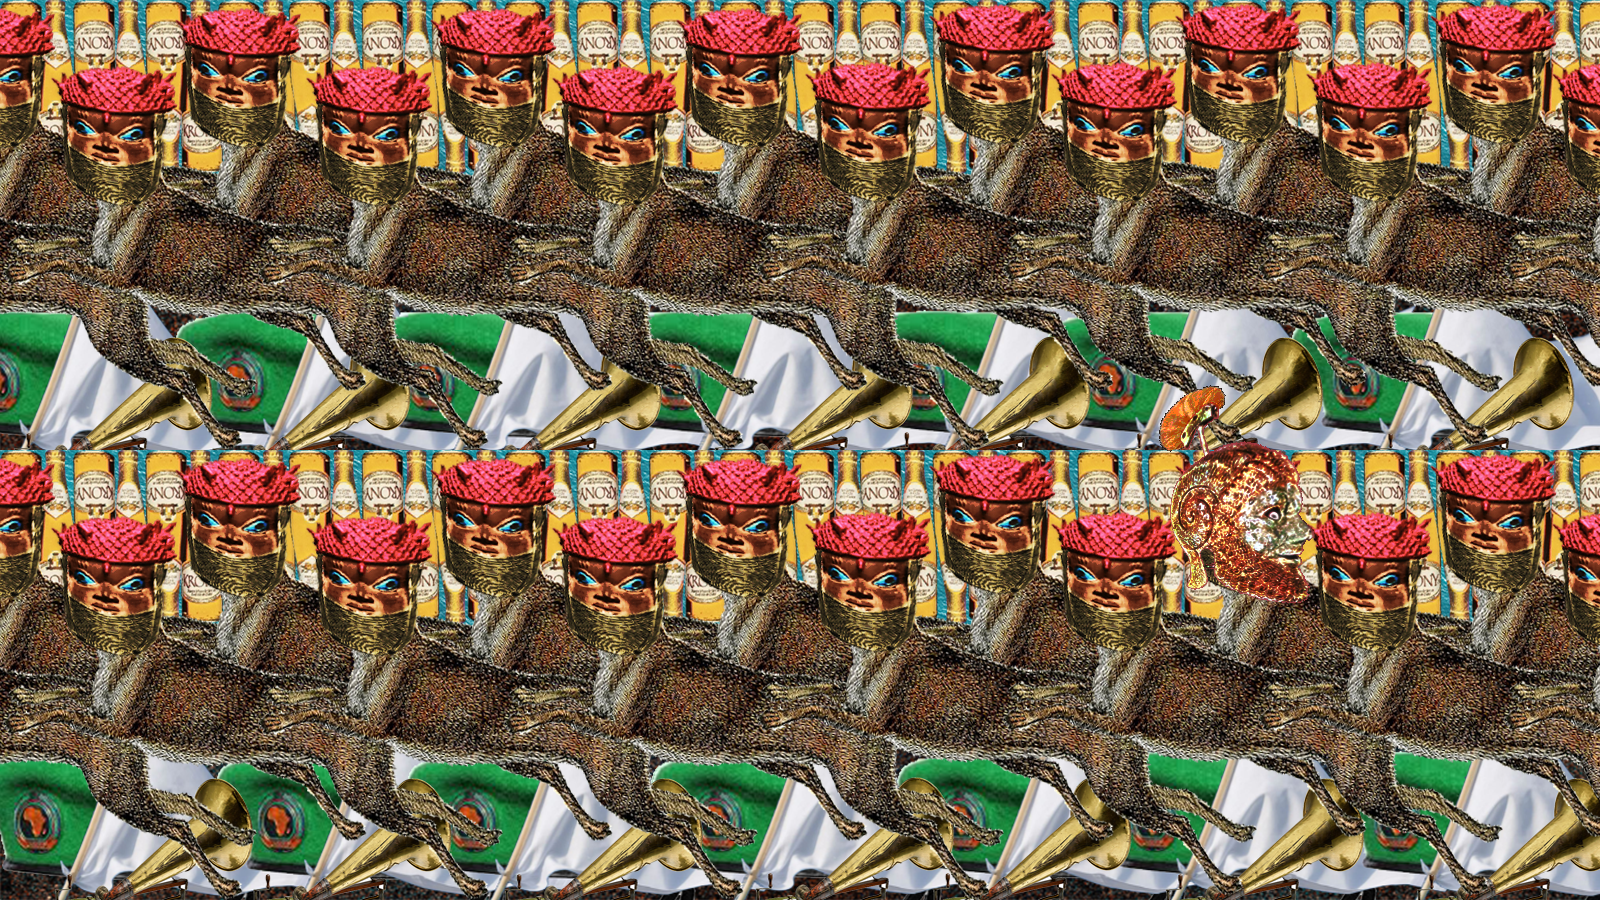
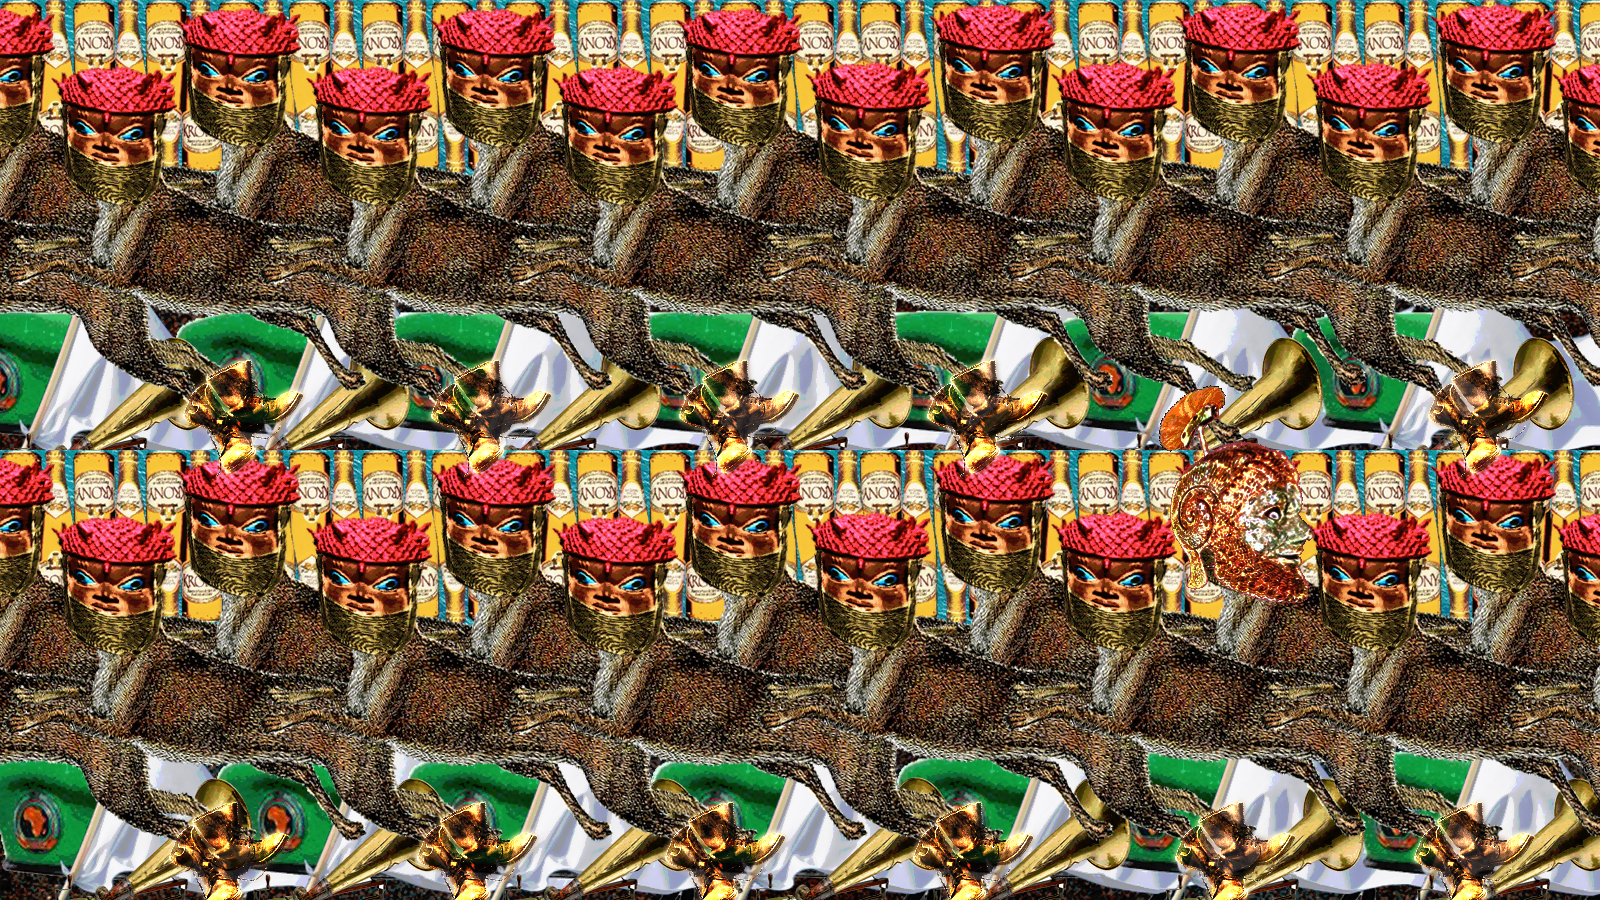
ready to work
work on light part

diff --git a/js/variations/4LIGHTyellow-variation.js b/js/variations/4LIGHTyellow-variation.js
@@ -17,12 +17,23 @@ let yellowImg5;
 let yellowImg6;
 let yellowImg7;
 
+//each will be triggered when the intruder object in each decor has been clicked.
+//when each timer is triggered the image opacity will go up so we can see the overall picture better.
+let timerAfterDecor1 = 0; //up to the treshold which will trigger the next decor event.
+let timerAfterDecor2 = 0;
+let timerAfterDecor3 = 0;
+let timerAfterDecor4 = 0;
+
+let flashlightX = 0;
+
 /////https://editor.p5js.org/ebenjmuse/sketches/rJUFyTjbz
 
 /**
  * This will be called just before the red variation starts
  */
-function yellowSetup() {}
+function yellowSetup() {
+  pixelDensity(1);
+}
 
 /**
  * This will be called every frame when the red variation is active
@@ -31,7 +42,7 @@ function yellowDraw() {
   background("black");
 
   push();
-  image();
+  //image();
 
   pop();
 
@@ -42,9 +53,54 @@ function yellowDraw() {
 
   yellowFadeIn -= 1;
   fill(0, yellowFadeIn);
-  rect(0, 0, width, height);
+  rect(0, 0, 1600, 900);
+
+  push();
+  tint(255, 255); //blueOpacity
+  image(blueImg8, 0, 0); //cadre complet
+  pop();
 
   yellowCinematic();
+
+  loadPixels();
+  let lightRadius = 90;
+  // We must also call loadPixels() on the PImage since we are going to read its pixels.
+  img.loadPixels();
+  for (let flashlightY = 0; flashlightY < height; flashlightY++) {
+    for (let flashlightX = 0; flashlightX < width; flashlightX++) {
+      var loc = (flashlightX + flashlightY * width) * 4;
+      // The functions red(), green(), and blue() pull out the three color components from a pixel.
+      let r = img.pixels[loc];
+      let g = img.pixels[loc + 1];
+      let b = img.pixels[loc + 2];
+
+      // Calculate an amount to change brightness
+      // based on proximity to the mouse
+      var distance = dist(flashlightX, flashlightY, mouseX, mouseY);
+      // The closer the pixel is to the mouse, the lower the value of "distance"
+      // We want closer pixels to be brighter, however, so we invert the value using map()
+      // Pixels with a distance greater than the lightRadius have a brightness of 0.0
+      // (or negative which is equivalent to 0 here)
+      // Pixels with a distance of 0 have a brightness of 1.0.
+      var adjustBrightness = map(distance, 0, lightRadius, 1, 0);
+      r *= adjustBrightness;
+      g *= adjustBrightness;
+      b *= adjustBrightness;
+
+      // Constrain RGB to between 0-255
+      r = constrain(r, 0, 255);
+      g = constrain(g, 0, 255);
+      b = constrain(b, 0, 255);
+
+      // Set the display pixel to the image pixel
+      pixels[loc] = r;
+      pixels[loc + 1] = g;
+      pixels[loc + 2] = b;
+      pixels[loc + 3] = 255; // Always have to set alpha
+    }
+  }
+
+  updatePixels();
 }
 
 function yellowCinematic() {
